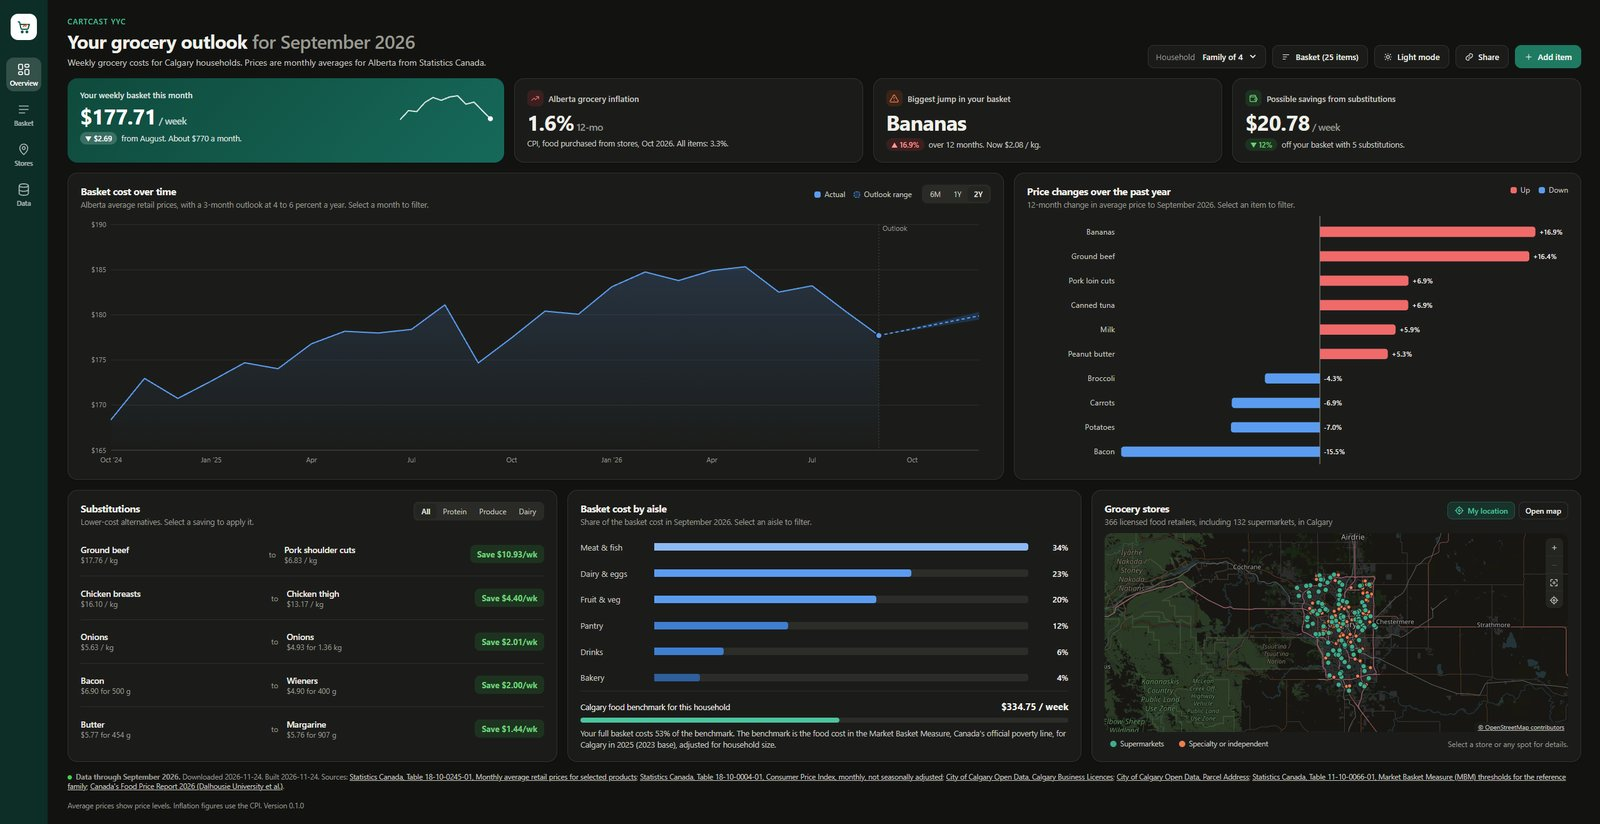
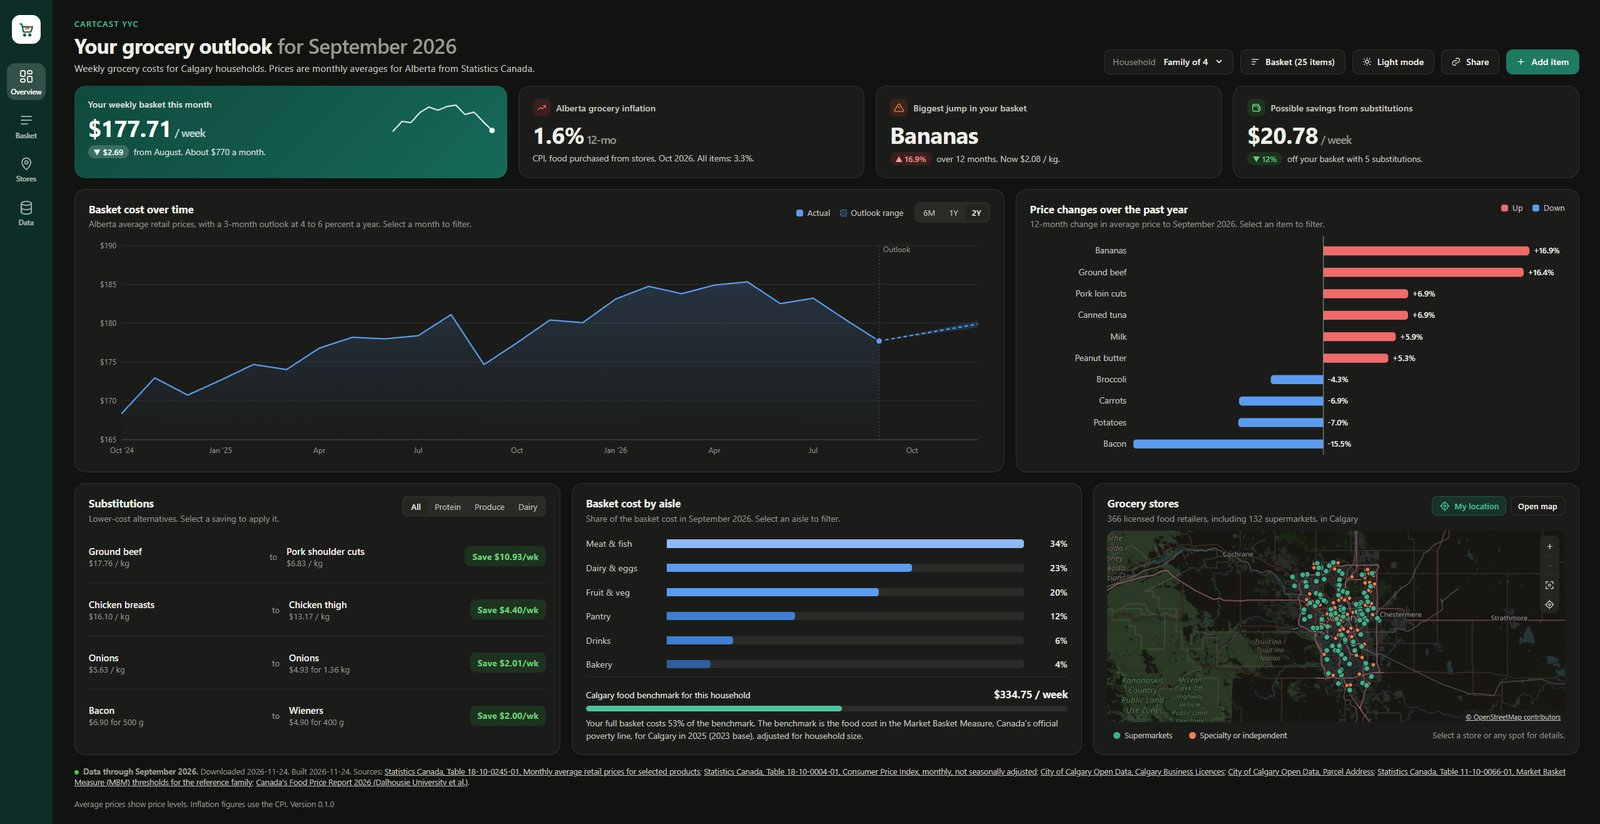
Match CartCast screenshots and add home navigation

diff --git a/css/style.css b/css/style.css
@@ -980,21 +980,52 @@ a.shot-frame:hover {
   margin: 0;
 }
 
+.back-link {
+  display: inline-flex;
+  align-items: center;
+  gap: 0.4rem;
+  color: var(--muted);
+  font-size: 0.92rem;
+  font-weight: 500;
+  margin-bottom: 1.25rem;
+}
+
+.back-link::before {
+  content: "\2190";
+  color: var(--accent);
+  transition: transform 0.2s;
+}
+
+.back-link:hover {
+  color: var(--text);
+  text-decoration: none;
+}
+
+.back-link:hover::before {
+  transform: translateX(-3px);
+}
+
 .next {
+  display: grid;
+  grid-template-columns: 1fr 2fr;
+  gap: 1.25rem;
   padding-top: 1.25rem;
   padding-bottom: 3rem;
 }
 
+.home-card,
 .next-card {
   display: block;
   padding: 1.5rem 1.75rem;
 }
 
+.home-card:hover,
 .next-card:hover {
   text-decoration: none;
   box-shadow: var(--shadow-hover);
 }
 
+.home-card .muted,
 .next-card .muted {
   display: block;
   font-size: 0.9rem;
@@ -1005,6 +1036,26 @@ a.shot-frame:hover {
   font-size: 1.4rem;
   font-weight: 600;
   color: var(--text);
+}
+
+.home-title {
+  display: block;
+  font-size: 1.4rem;
+  font-weight: 600;
+  color: var(--text);
+}
+
+.home-title::before {
+  content: "\2190\00a0";
+  color: var(--accent);
+}
+
+.home-card:hover .home-title {
+  color: var(--accent-text);
+}
+
+.next-card {
+  text-align: right;
 }
 
 .next-title::after {
@@ -1021,6 +1072,15 @@ a.shot-frame:hover {
 }
 
 @media (max-width: 860px) {
+  .next {
+    grid-template-columns: 1fr;
+  }
+
+  .next-card {
+    order: -1;
+    text-align: left;
+  }
+
   .wrap {
     padding-left: 1.25rem;
     padding-right: 1.25rem;

diff --git a/vancouver-liveability.html b/vancouver-liveability.html
@@ -15,7 +15,7 @@
   <link rel="preconnect" href="https://fonts.googleapis.com">
   <link rel="preconnect" href="https://fonts.gstatic.com" crossorigin>
   <link href="https://fonts.googleapis.com/css2?family=Public+Sans:wght@400;500;600;700&family=Source+Serif+4:opsz,wght@8..60,600&display=swap" rel="stylesheet">
-  <link rel="stylesheet" href="css/style.css?v=38ac022d">
+  <link rel="stylesheet" href="css/style.css?v=d8c8bba0">
 </head>
 <body>
   <header class="nav">
@@ -38,6 +38,7 @@
 
   <main id="top">
 <section class="project-hero wrap">
+      <a class="back-link" href="./#focus">Back to home</a>
 <h1>Vancouver Neighbourhood Liveability Score</h1>
       <p class="lead">A composite index measuring which Vancouver neighbourhoods offer the best quality of life for the cost, across housing, safety, culture and business.</p>
       <dl class="project-facts card">
@@ -96,6 +97,10 @@
       </div>
     </section>
     <section class="next wrap">
+      <a class="home-card card" href="./#focus">
+        <span class="muted">Portfolio</span>
+        <span class="home-title">Back to home</span>
+      </a>
       <a class="next-card card" href="furniture-orders">
         <span class="muted">Next project</span>
         <span class="next-title">Furniture Orders Pipeline</span>

diff --git a/cartcast-yyc.html b/cartcast-yyc.html
@@ -15,7 +15,7 @@
   <link rel="preconnect" href="https://fonts.googleapis.com">
   <link rel="preconnect" href="https://fonts.gstatic.com" crossorigin>
   <link href="https://fonts.googleapis.com/css2?family=Public+Sans:wght@400;500;600;700&family=Source+Serif+4:opsz,wght@8..60,600&display=swap" rel="stylesheet">
-  <link rel="stylesheet" href="css/style.css?v=38ac022d">
+  <link rel="stylesheet" href="css/style.css?v=d8c8bba0">
 </head>
 <body>
   <header class="nav">
@@ -38,6 +38,7 @@
 
   <main id="top">
 <section class="project-hero wrap">
+      <a class="back-link" href="./#focus">Back to home</a>
 <h1>CartCast YYC</h1>
       <p class="lead">A live dashboard that turns Statistics Canada grocery prices into a weekly food budget for Calgary households.</p>
       <dl class="project-facts card">
@@ -97,6 +98,10 @@
       </div>
     </section>
     <section class="next wrap">
+      <a class="home-card card" href="./#focus">
+        <span class="muted">Portfolio</span>
+        <span class="home-title">Back to home</span>
+      </a>
       <a class="next-card card" href="vancouver-liveability">
         <span class="muted">Next project</span>
         <span class="next-title">Vancouver Liveability Score</span>

diff --git a/furniture-orders.html b/furniture-orders.html
@@ -15,7 +15,7 @@
   <link rel="preconnect" href="https://fonts.googleapis.com">
   <link rel="preconnect" href="https://fonts.gstatic.com" crossorigin>
   <link href="https://fonts.googleapis.com/css2?family=Public+Sans:wght@400;500;600;700&family=Source+Serif+4:opsz,wght@8..60,600&display=swap" rel="stylesheet">
-  <link rel="stylesheet" href="css/style.css?v=38ac022d">
+  <link rel="stylesheet" href="css/style.css?v=d8c8bba0">
 </head>
 <body>
   <header class="nav">
@@ -38,6 +38,7 @@
 
   <main id="top">
 <section class="project-hero wrap">
+      <a class="back-link" href="./#focus">Back to home</a>
 <h1>Furniture Orders Pipeline</h1>
       <p class="lead">A scheduled pipeline that loads order data into PostgreSQL every day and keeps the reporting tables current.</p>
       <dl class="project-facts card">
@@ -64,6 +65,10 @@
     </div>
     </div>
     <section class="next wrap">
+      <a class="home-card card" href="./#focus">
+        <span class="muted">Portfolio</span>
+        <span class="home-title">Back to home</span>
+      </a>
       <a class="next-card card" href="cartcast-yyc">
         <span class="muted">Next project</span>
         <span class="next-title">CartCast YYC</span>

diff --git a/index.html b/index.html
@@ -15,7 +15,7 @@
   <link rel="preconnect" href="https://fonts.googleapis.com">
   <link rel="preconnect" href="https://fonts.gstatic.com" crossorigin>
   <link href="https://fonts.googleapis.com/css2?family=Public+Sans:wght@400;500;600;700&family=Source+Serif+4:opsz,wght@8..60,600&display=swap" rel="stylesheet">
-  <link rel="stylesheet" href="css/style.css?v=38ac022d">
+  <link rel="stylesheet" href="css/style.css?v=d8c8bba0">
 </head>
 <body>
   <header class="nav">
